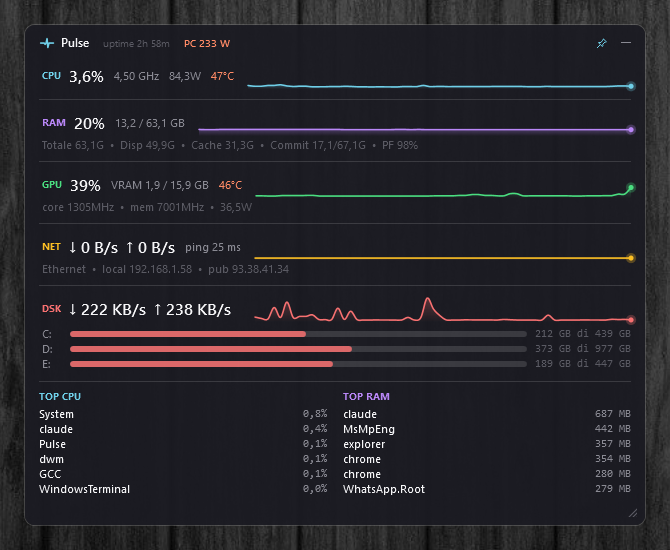
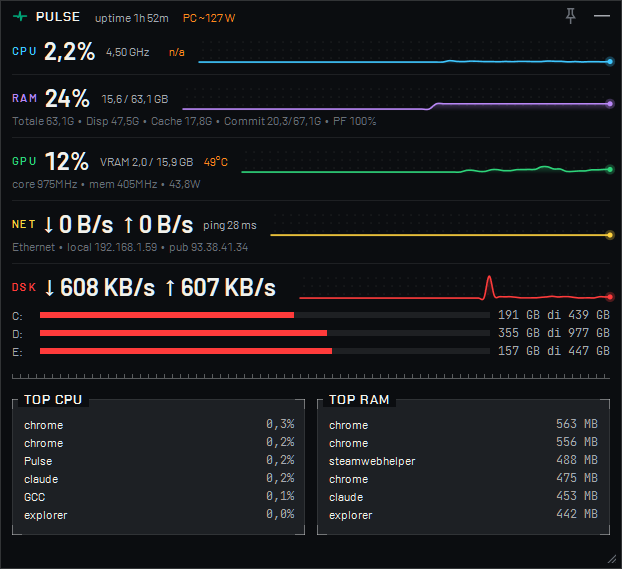
v1.2.0: README screenshot of the Reticle UI, CHANGELOG dated

Changed region(s): [[0.0, 0.0, 1.0, 1.0]]

diff --git a/CHANGELOG.md b/CHANGELOG.md
@@ -5,7 +5,7 @@ All notable changes to Pulse will be documented in this file.
 The format is based on [Keep a Changelog](https://keepachangelog.com/en/1.1.0/),
 and this project adheres to [Semantic Versioning](https://semver.org/spec/v2.0.0.html).
 
-## [Unreleased] - planned as v1.2.0
+## [v1.2.0] - 2026-09-28
 
 ### Changed
 - **New look: the Reticle UI** (the author's WPF design system, v0.5.0): widget frame, Barlow / Barlow Condensed / Chakra Petch typography, dotted grid under the sparklines, *Top CPU* and *Top RAM* as framed panels, tabular digits so live values never shift their row.
